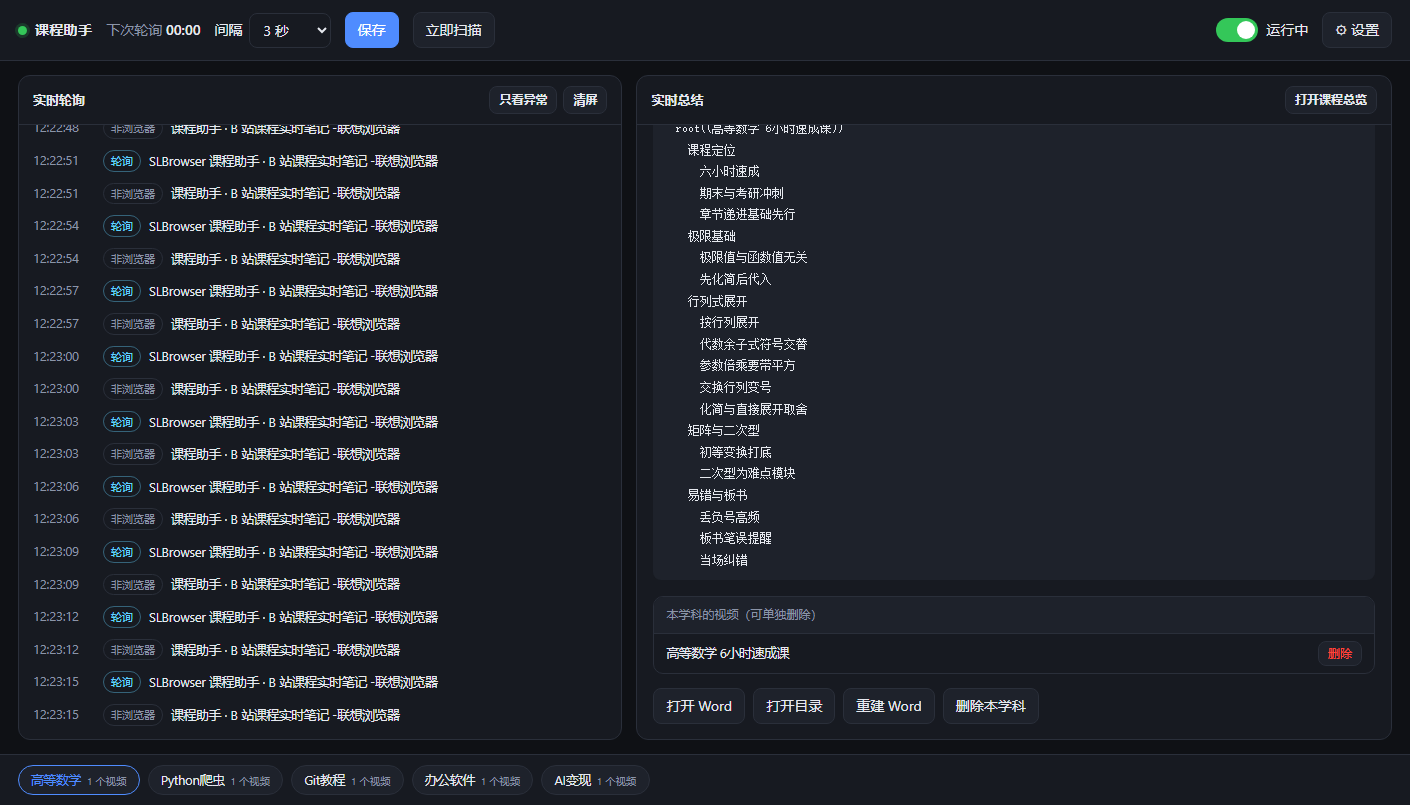
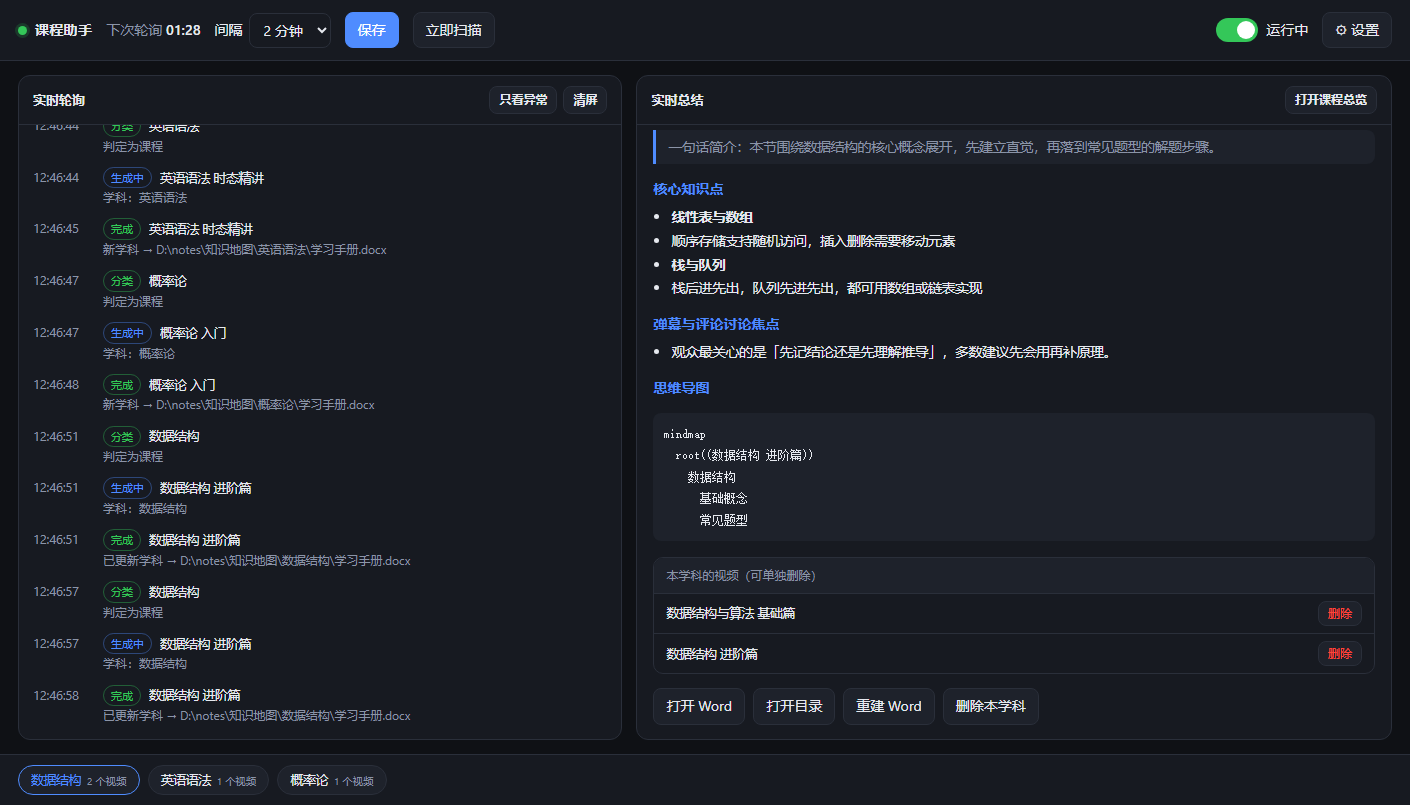
docs: 示例与截图改用演示数据，移除本机路径
- README 第 5 节输入输出示例换成演示数据（数据结构与算法 基础篇 / BV1xx411c7mD），不再暴露真实观看记录
- docs/ui.png、docs/ui-delete.png 用隔离演示实例重拍，学科条改为 数据结构 / 英语语法 / 概率论
- dsh-course-notes/README 的输出目录示例改为占位路径

diff --git a/plugins/dsh-course-notes/README.md b/plugins/dsh-course-notes/README.md
@@ -16,7 +16,7 @@
 
 | 配置 | 默认 | 说明 |
 | --- | --- | --- |
-| `outputDir` | `<用户目录>/课程知识地图` | 与 coursemap 的 outputDir 保持一致（本项目为 `D:/course-notes/知识地图`） |
+| `outputDir` | `<用户目录>/课程知识地图` | 与 coursemap 的 outputDir 保持一致（例如 `D:/notes/知识地图`） |
 | `presentLimit` | 4 | 单次投递返回的文档数上限（present 上限 4） |
 
 ## 投递状态
